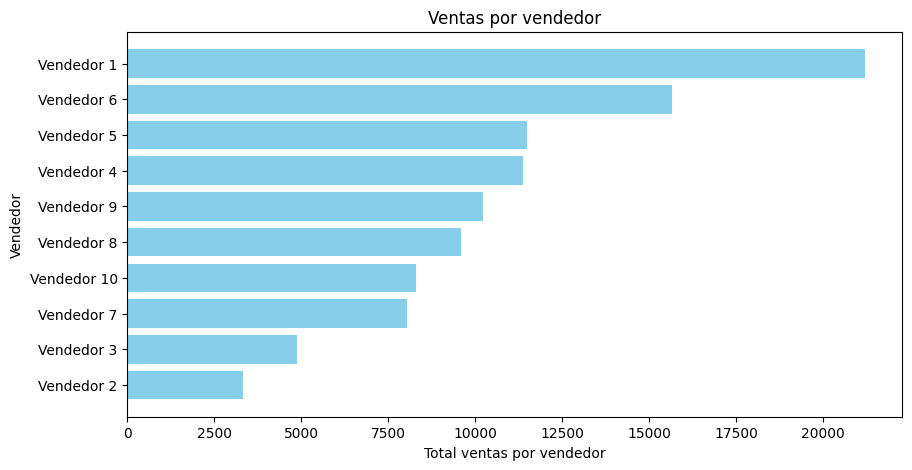
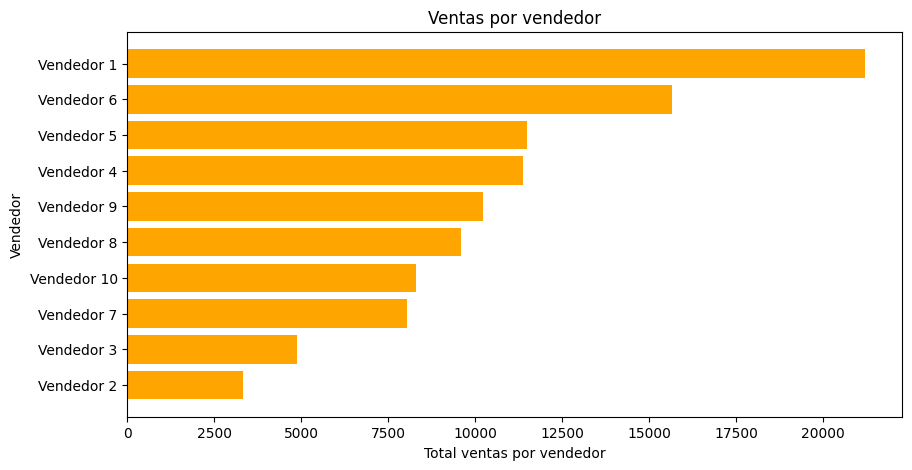
Se agregan gráficos en una segunda hoja del reporte de ventas

Changed region(s): [[0.1228, 0.0894, 0.9518, 0.8638]]

diff --git a/limpieza.py b/limpieza.py
@@ -92,7 +92,7 @@ plt.close()
 # gráficos de ventas por vendedor
 plt.figure(figsize=(10,5))
 
-plt.barh(ventas_por_vendedor["vendedor"], ventas_por_vendedor["monto"], color="skyblue")
+plt.barh(ventas_por_vendedor["vendedor"], ventas_por_vendedor["monto"], color="orange")
 plt.xlabel("Total ventas por vendedor")
 plt.ylabel("Vendedor")
 plt.title("Ventas por vendedor")
@@ -143,5 +143,22 @@ dibujar_tabla("Monto Vendido por Vendedor", ventas_por_vendedor, "vendedor")
 
 
 
+# agregar gráficos al reporte
+pdf.add_page()
+pdf.set_font("Arial", size=14, style="B")
+pdf.cell(200, 10, "Gráfico: Ventas por empresa", ln=True, align="C")
+pdf.image("Ventas_por_empresa.png", x=25, w=150)
+
+pdf.ln(10)
+
+pdf.cell(200, 10, "Gráfico: Ventas por vendedor", ln=True, align="C")
+pdf.image("Ventas_por_vendedor.png", x=25, w=150)
+pdf.ln(10)
+
+
+
+
 # IMPRIMIR DOCUMENTO PDF
 pdf.output("reporte_ventas.pdf")
+        
+        
